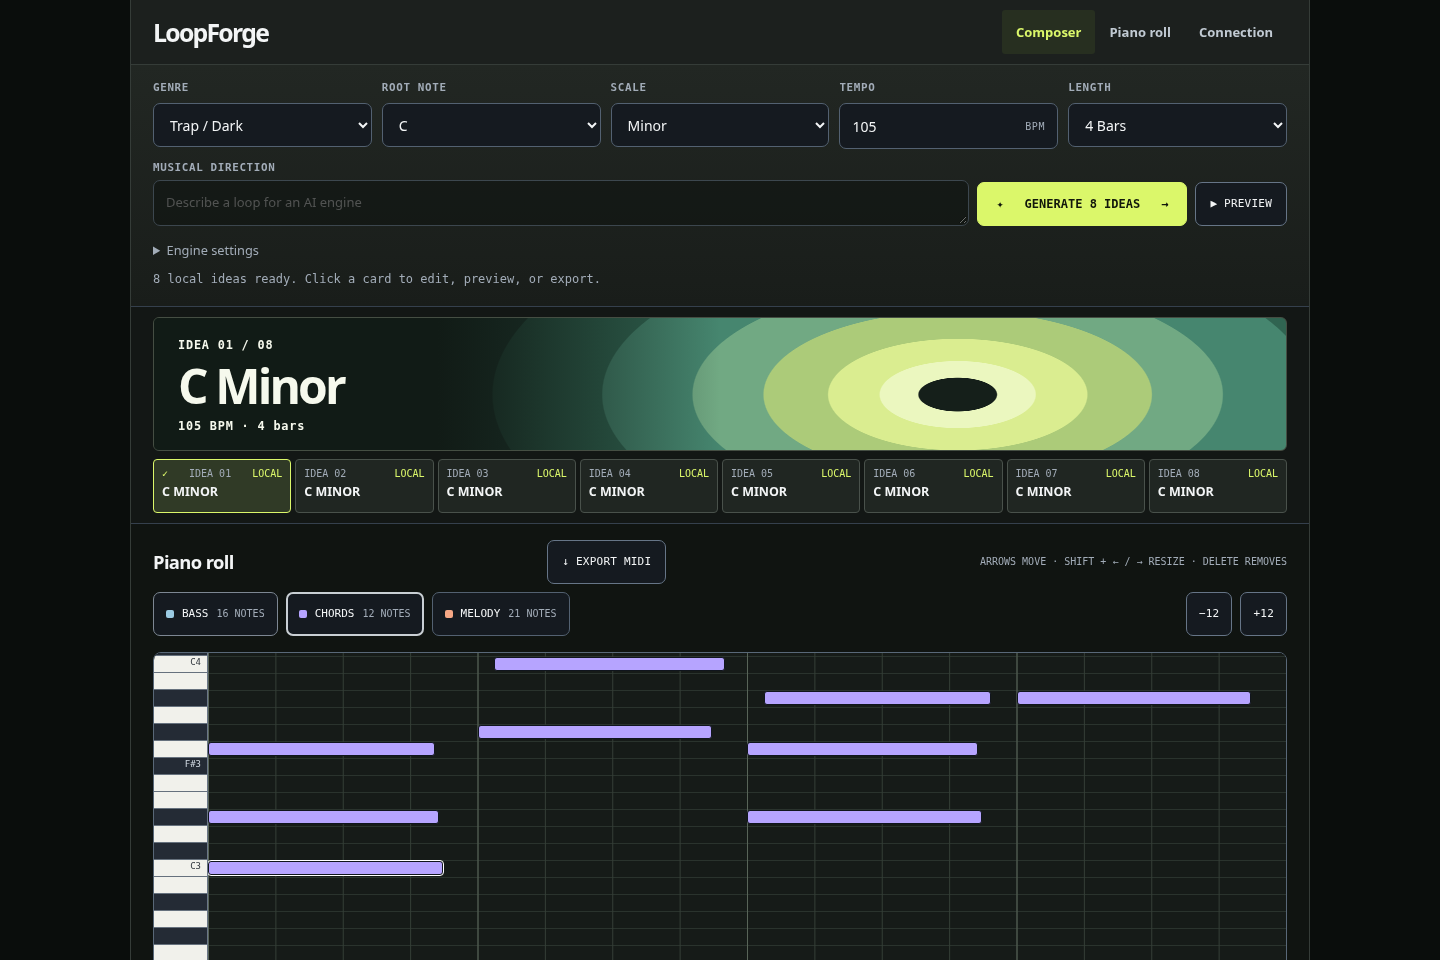
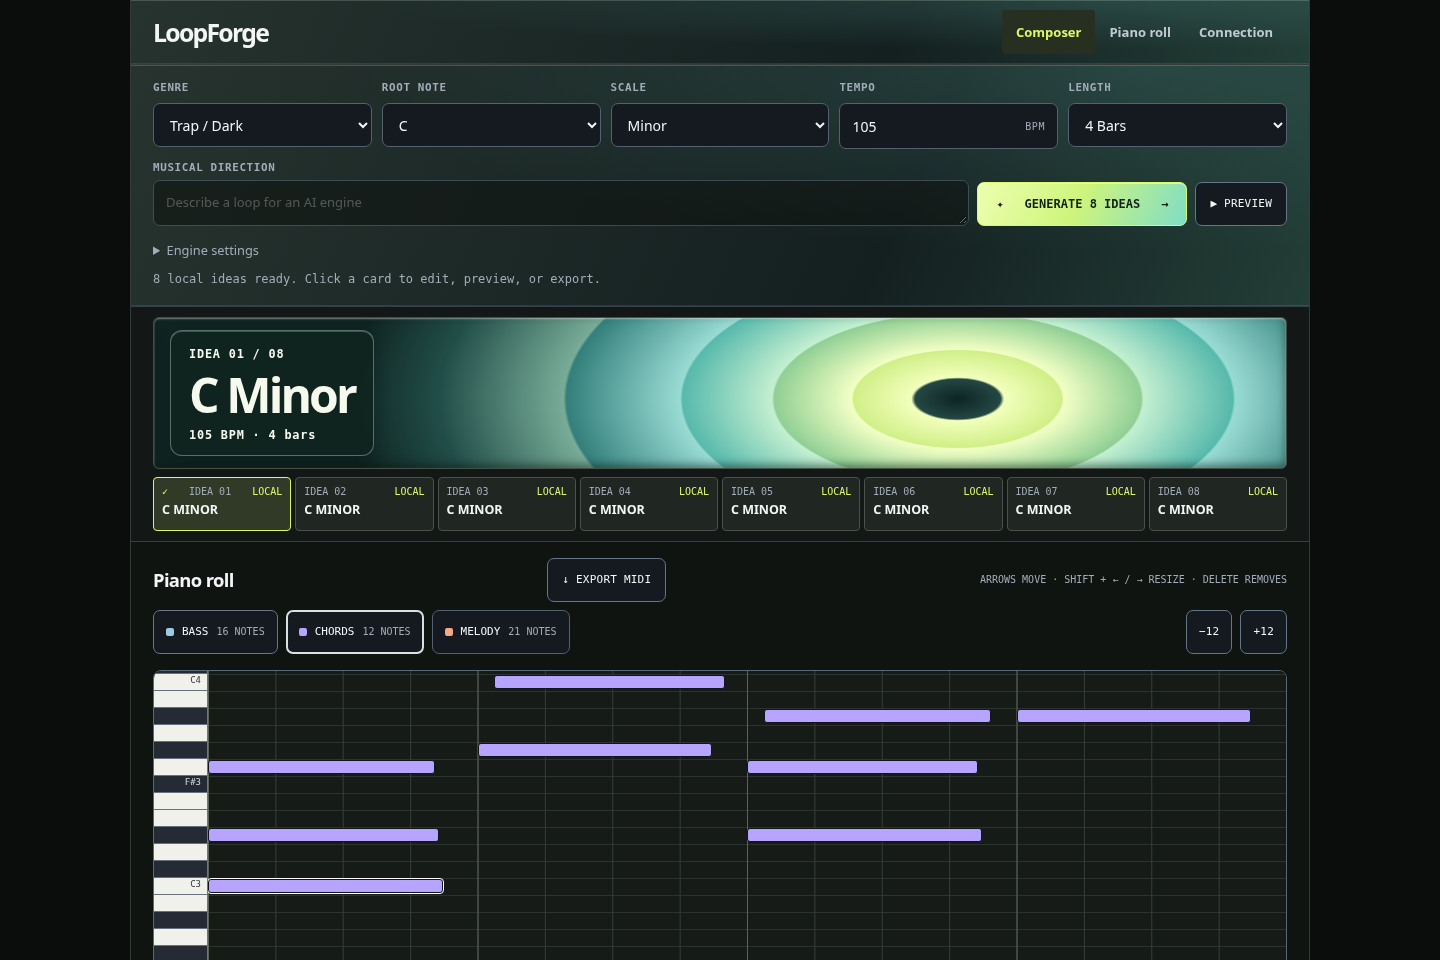
Add tinted glass and teal-to-lime gradients to the instrument

Changed region(s): [[0.0938, 0.0, 0.9062, 1.0], [0.5, 0.8438, 0.6875, 0.875], [0.8125, 0.6562, 0.9062, 0.6875]]

diff --git a/web/style.css b/web/style.css
@@ -49,3 +49,22 @@ body{background:#0a0d0c}
 .roll-scroll{flex:1}.piano-surface{width:100%}
 .note-inspector{margin:12px 0}
 .roll{background-color:#161b18;background-image:linear-gradient(to right,#586458 1px,transparent 1px),linear-gradient(to right,#343e36 1px,transparent 1px),linear-gradient(to bottom,#2a332d 1px,transparent 1px)}
+
+/* Tinted glass over the fixed instrument surface. */
+.instrument-head,.workspace{
+ background:radial-gradient(ellipse at 85% 0%,#37605a85,transparent 55%),linear-gradient(115deg,#26332e,#142020 65%,#233e37);
+ box-shadow:inset 0 1px #e9ffef2e,inset 0 -1px #84ccb125
+}
+.loop-field{
+ background:radial-gradient(ellipse 54% 190% at var(--core-x) 54%,#0d2423 0%,#244743 7%,#f2ffbc 7.6%,#d0ef88 17%,#f2ffc4 17.4%,#90cf94 30%,#c3efd0 30.4%,#57b9ac 45%,#98dbd3 45.4%,#347f7b 64%,#78ac97 64.5%,#214d48 85%,#102522);
+ box-shadow:inset 0 1px 2px #ffffff73,inset 0 -3px 9px #08141080
+}
+.field-caption{
+ width:fit-content;min-width:9rem;margin:12px 16px;padding:10px 18px;border-radius:12px;
+ color:#f6f9ed;background:#10231fed;border:1px solid #caefda61;
+ box-shadow:inset 0 1px #ffffff38,0 4px 16px #06120e30
+}
+@supports(backdrop-filter:blur(10px)){
+ .field-caption{background:#10231fd9;backdrop-filter:blur(10px) saturate(1.2)}
+}
+.command-row .primary{background:linear-gradient(115deg,#edffaf,#cef47c 48%,#80ddc5);color:#112318;box-shadow:inset 0 1px #fff9}

diff --git a/plugin/Source/LoopSignal.h b/plugin/Source/LoopSignal.h
@@ -102,11 +102,17 @@ public:
     const float scale = 1.0f - float(i)*0.13f;
     const auto band = juce::Rectangle<float>(frame.getWidth()*0.83f*scale, frame.getHeight()*2.6f*scale)
                           .withCentre(centre.translated(-12.0f*i, 0));
-    g.setColour(juce::Colour(ink[size_t(i)]));
+    const auto tint = juce::Colour(ink[size_t(i)]);
+    juce::ColourGradient glass(tint.interpolatedWith(juce::Colour(0xff53ddd6), 0.55f),
+                               band.getTopLeft(), tint.darker(0.25f), band.getBottomRight(), false);
+    glass.addColour(0.58, tint.brighter(0.12f));
+    g.setGradientFill(glass);
     g.fillEllipse(band);
+    g.setColour(juce::Colours::white.withAlpha(0.23f));
+    g.drawEllipse(band, 1.0f);
    }
    drawDial(g, centre.translated(-72.0f, 0));
-   g.setColour(juce::Colour(0xff101714));
+   g.setColour(juce::Colour(0xf0182b29));
    g.fillRoundedRectangle(displayArea().expanded(7,4).toFloat(), 5.0f);
    drawTracks(g, displayArea());
   }

diff --git a/plugin/Source/StudioLook.h b/plugin/Source/StudioLook.h
@@ -67,7 +67,12 @@ public:
   const bool primary = enabled && colour == accent;
   const auto top = fill.interpolatedWith(juce::Colours::white, primary ? 0.13f : 0.08f);
   const auto bottom = fill.darker(primary ? 0.17f : 0.25f);
-  g.setGradientFill(juce::ColourGradient(top, area.getTopLeft(), bottom, area.getBottomLeft(), false));
+  juce::ColourGradient glass(top, area.getTopLeft(),
+                             bottom.interpolatedWith(juce::Colour(0xff53cabb), primary ? 0.55f : 0.12f),
+                             area.getBottomRight(), false);
+  glass.addColour(0.36, fill.interpolatedWith(text, enabled ? 0.15f : 0.04f));
+  glass.addColour(0.58, bottom);
+  g.setGradientFill(glass);
   g.fillRoundedRectangle(area, 6.0f);
   g.setColour(button.hasKeyboardFocus(true) ? (colour == accent ? text : accent) :
               enabled && colour == accent ? fill : border.withAlpha(enabled ? 1.0f : 0.55f));

diff --git a/docs/superpowers/specs/2026-11-20-instrument-ui.md b/docs/superpowers/specs/2026-11-20-instrument-ui.md
@@ -8,7 +8,7 @@ The second image repeats that hierarchy at promotional scale. Its headline and r
 
 ## Implementation
 
-Use a graphite shell, pale type and LoopForge lime for focus and primary actions. Build the field from original nested bands of forest, teal, chartreuse and ivory. An off-centre core gives it direction. Keep it static and render it locally. The field provides visual context for the selected loop. Controls with a real action use buttons.
+Use a graphite shell, pale type and LoopForge lime for focus and primary actions. Build the field from original nested bands of forest, teal, chartreuse and ivory. An off-centre core gives it direction. Keep it static and render it locally. Shade each contour from cool turquoise into lime with a fine reflected edge. Place web loop metadata on a translucent dark plaque with a solid fallback. Native controls use painted diagonal highlights. Keep the note grid matte and all highlights static. The field provides visual context for the selected loop. Controls with a real action use buttons.
 
 In Standalone and VST3, centre the direction/seed/compose/transport row. Keep the MIDI timing overview and track buttons on a dark surface within the field, with the tempo at its core. Preserve piano-roll, overview, settings and export entry points.
 

diff --git a/task.md b/task.md
@@ -132,3 +132,5 @@ Earlier plans, reports, rulings, audit assignments and verification history are 
 **ERR100 verification at d080f97.** Linux npm test passed 98/98 with packaging tools on PATH. All six [Prototype CI jobs](https://github.com/Aiorro/LoopHorge/actions/runs/44728723581) passed. The [native workflow](https://github.com/Aiorro/LoopHorge/actions/runs/44728723607) also passed its Node prerequisite on Windows and Ubuntu. DAW acceptance remains open.
 
 **Instrument UI, 2026-11-20.** Implemented the [supplied reference analysis and UI specification](docs/superpowers/specs/2026-11-20-instrument-ui.md) in the shared JUCE editor and web composer. Linux VST3 and Standalone built, native CTest passed 43/43, Node passed 98/98. Chromium passed the editor interaction, MIDI download and axe checks at 320/390/768/1440 pixels. Screenshots from the actual editors are linked in the specification. Windows host acceptance remains open.
+
+**Instrument finish, 2026-11-20.** Added static glass highlights and teal-to-lime gradients to the shared native editor and web composer. Refreshed the three editor screenshots. Linux native tests passed 43/43 and Node tests passed 98/98. Chromium editor interaction and axe checks passed across four widths.
